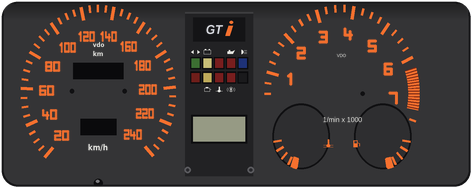
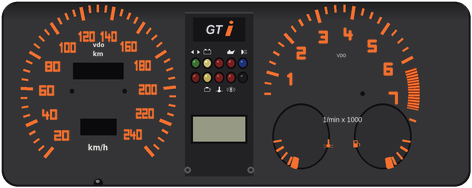
Centro dos ponteiros pela foto: Fúria TR com a barra atravessando o eixo (sem miolo); GTI e Ímola com disco chapado embaixo e a barra por cima (hubUnder); luzes-espia do GTI voltam a ser redondas (v0.29.6)
Claude-Session: https://claude.ai/code/session_01MLD9VR7gkmY4w6a9beZcp6

Changed region(s): [[0.3856, 0.2926, 0.5339, 0.4521]]

diff --git a/src/cockpit.ts b/src/cockpit.ts
@@ -70,6 +70,7 @@ interface CockpitArt {
   hubR?: number; // raio do miolo redondo dos ponteiros grandes
   speedRest?: number; // km/h onde o ponteiro descansa parado (escalas que começam em 20: o pino fica pouco abaixo do 20)
   tachReal?: boolean; // conta-giros na escala de verdade: giro real (do motor do carro) sobre o máximo do mostrador
+  hubUnder?: boolean; // com needleFine: o miolo é um disco chapado EMBAIXO do ponteiro, que passa por cima do eixo (VDO do GTI, Ímola)
   needleTip?: number; // com needleFine: largura da ponta em fração da base (padrão 0,12; 0,5 = ponteiro em barra, quase reto)
   needleFine?: boolean; // ponteiro afinando até a ponta, com suavização (como o desenho da arte)
   faces?: { src: string; src2?: string; x: number; y: number; w: number; h: number }[]; // fundos dos mostradores em alta resolução (src2: versão feita para RES 2)
@@ -253,7 +254,7 @@ COCKPIT_ART['br-golgti'] = {
   tells: null,
   dash: cp('br-golgti-dash'), top: cp('br-golgti-top'), wheel: cp('br-golgti-wheel'), dashMask: cp('br-golgti-dash-mask'), topMask: cp('br-golgti-top-mask'),
   glass: { at: [86, 110], thr: 256 }, // retrovisor esquerdo (vidro transparente na arte)
-  pivot: [128, 112], wheelTop: 8, radar: [206, 20], speedMax: 240, needle: '#f2eee2', needleW: 2.2, needleTail: 0, needleFine: true, needleTip: 0.22, tachReal: true, speedRest: 14, hub: '#141416', hubR: 2.3,
+  pivot: [128, 112], wheelTop: 8, radar: [206, 20], speedMax: 240, needle: '#f2eee2', needleW: 1.8, needleTail: 2.6, needleFine: true, needleTip: 0.3, hubUnder: true, tachReal: true, speedRest: 14, hub: '#3c3c3f', hubR: 2.8,
   faces: [{ src: cp('br-golgti-cluster'), x: 69.5, y: 31.5, w: 118, h: 47 }],
   glow: '255,120,40', glowK: 0.6,
   facesLit: '255,190,130', litMin: 150, litByMax: true, litNeedles: true, // à noite os números laranja e os textos brancos acendem
@@ -288,7 +289,7 @@ COCKPIT_ART['br-monza'] = {
   tells: null,
   dash: cp('br-monza-dash'), top: cp('br-monza-top'), wheel: cp('br-monza-wheel'), dashMask: cp('br-monza-dash-mask'), topMask: cp('br-monza-top-mask'),
   glass: { at: [56, 108], thr: 256 }, // retrovisor esquerdo (vidro transparente na arte)
-  pivot: [128, 112], wheelTop: 8, radar: [222, 12], speedMax: 220, needle: '#f47c2c', needleW: 2.0, needleTail: 1, needleFine: true, needleTip: 0.4, tachReal: true, speedRest: 14, hub: '#0e0e10', hubR: 3.0,
+  pivot: [128, 112], wheelTop: 8, radar: [222, 12], speedMax: 220, needle: '#f47c2c', needleW: 1.9, needleTail: 3.0, needleFine: true, needleTip: 0.35, hubUnder: true, tachReal: true, speedRest: 14, hub: '#2c2c2f', hubR: 3.4,
   faces: [{ src: cp('br-monza-cluster'), x: 64.5, y: 37.5, w: 153, h: 54 }],
   glow: '255,120,40', glowK: 0.6,
   facesLit: '255,190,130', litMin: 150, litByMax: true, litNeedles: true,
@@ -315,7 +316,7 @@ COCKPIT_ART['br-monzasedan'] = {
   tells: null,
   dash: cp('br-monzasedan-dash'), top: cp('br-monzasedan-top'), wheel: cp('br-monzasedan-wheel'),
   glass: { at: [52, 111], thr: 256 }, // retrovisor esquerdo (vidro transparente na arte)
-  pivot: [128, 112], wheelTop: 8, radar: [222, 16], speedMax: 220, needle: '#f0a024', needleW: 1.8, needleTail: 1, needleFine: true, needleTip: 0.4, tachReal: true, speedRest: 14, hub: '#0e0e10', hubR: 2.6,
+  pivot: [128, 112], wheelTop: 8, radar: [222, 16], speedMax: 220, needle: '#f0a024', needleW: 1.7, needleTail: 2.6, needleFine: true, needleTip: 0.35, hubUnder: true, tachReal: true, speedRest: 14, hub: '#2c2c2f', hubR: 3.0,
   faces: [{ src: cp('br-monzasedan-cluster'), x: 66.71, y: 42.57, w: 132.3, h: 49.98 }],
   glow: '255,150,60', glowK: 0.5,
   facesLit: '255,220,170', litMin: 150, litByMax: true, litNeedles: true,
@@ -737,7 +738,7 @@ function c4Cluster(c: CanvasRenderingContext2D, ox: number, r: Race) {
 // 0-320 e conta-giros 0-100 (x 100) com faixa vermelha, óleo e água no meio; tudo aceso em laranja
 COCKPIT_ART.testarossa = {
   dash: cp('testarossa-dash'), top: cp('testarossa-top'), wheel: cp('testarossa-wheel'),
-  pivot: [128, 105], wheelTop: 12, speedMax: 320, needle: '#ff8a1c', needleW: 2.3, needleTail: 0, needleFine: true, needleTip: 0.42, tachReal: true, hub: '#101011', hubR: 1.6,
+  pivot: [128, 105], wheelTop: 12, speedMax: 320, needle: '#ff8a1c', needleW: 2.0, needleTail: 6.5, needleFine: true, needleTip: 0.45, hubUnder: true, tachReal: true, hub: '#101011', hubR: 0,
   glass: { at: [12, 96], thr: 256, x0: 3, toEdge: true }, glow: '255,140,40', tells: null,
   faces: [{ src: cp('tr-cluster'), src2: cp('tr-cluster-2x'), x: 63.5, y: 29.5, w: 137, h: 54 }],
   speed: { x: 95.4, y: 53.7, r: 21, max: 320, labels: [], tick: 20, red: 999, face: false, a0: 135 * (Math.PI / 180), sweep: 270 * (Math.PI / 180) },
@@ -1255,6 +1256,7 @@ function dialNeedle(c: CanvasRenderingContext2D, d: Dial, ox: number, frac: numb
 // ponteiro: do centro exato, traçado em meio pixel (1 px de espessura)
 // ponteiro fino e afinado (arte com mostradores em alta resolução): polígono suavizado, com a
 // sombra leve no fundo, rabicho e miolo redondo com brilho
+let hubUnder = false; // art.hubUnder, acertado a cada quadro
 let needleTip = 0.12; // ponta do ponteiro afinado (art.needleTip), acertada a cada quadro
 function fineNeedle(c: CanvasRenderingContext2D, x: number, y: number, len: number, a: number, w: number, color: string, hub: string, hubR: number, tail: number, tailCol?: string) {
   const ca = Math.cos(a), sa = Math.sin(a) * PIX_Y, px = -Math.sin(a), py = Math.cos(a) * PIX_Y;
@@ -1268,8 +1270,15 @@ function fineNeedle(c: CanvasRenderingContext2D, x: number, y: number, len: numb
     c.closePath();
     c.fill();
   };
+  if (hubUnder && hubR > 0) { // disco chapado do eixo, por baixo do ponteiro
+    c.fillStyle = 'rgba(0,0,0,0.5)';
+    c.beginPath(); c.ellipse(x, y, hubR + 0.35, (hubR + 0.35) * PIX_Y, 0, 0, Math.PI * 2); c.fill();
+    c.fillStyle = hub;
+    c.beginPath(); c.ellipse(x, y, hubR, hubR * PIX_Y, 0, 0, Math.PI * 2); c.fill();
+  }
   poly(0.6, 0.8, 'rgba(0,0,0,0.22)');
   poly(0, 0, color);
+  if (hubUnder) return;
   if (tailCol && tail > 0) {
     // contrapeso de outra cor (o Diablo tem o rabicho preto)
     c.fillStyle = tailCol;
@@ -2028,6 +2037,7 @@ function renderCockpitInner(c: CanvasRenderingContext2D, r: Race, lives: number,
   const art = COCKPIT_ART[r.car.dash];
   ART_TOP = 100 + (art?.dy ?? 0);
   needleTip = art?.needleTip ?? 0.12;
+  hubUnder = !!art?.hubUnder;
   // nas cabines desenhadas, os vidros laterais vão abaixo do painel: a estrada desce até o fim
   // a cabeça do motorista: só a vista pelo para-brisa gira (a cabine não se mexe nem é cortada)
   const yaw0 = r.yaw;

diff --git a/tools/ref/gol_gauges.py b/tools/ref/gol_gauges.py
@@ -262,9 +262,10 @@ def middle(d):
         for i, col in enumerate(cc):
             x = x0 + 2.6 + i * (x1 - x0 - 5.2) / 4
             c0 = P(x, row)
-            # janelinhas quadradas (como na foto), não redondas
-            d.rectangle([c0[0] - K * 1.3, c0[1] - K * 1.3 * PY, c0[0] + K * 1.3, c0[1] + K * 1.3 * PY], fill=(12, 12, 14))
-            d.rectangle([c0[0] - K * 1.0, c0[1] - K * 1.0 * PY, c0[0] + K * 1.0, c0[1] + K * 1.0 * PY], fill=col)
+            # lentes redondas (conferido na foto em tamanho grande)
+            d.ellipse([c0[0] - K * 1.25, c0[1] - K * 1.25 * PY, c0[0] + K * 1.25, c0[1] + K * 1.25 * PY], fill=(12, 12, 14))
+            d.ellipse([c0[0] - K * 0.9, c0[1] - K * 0.9 * PY, c0[0] + K * 0.9, c0[1] + K * 0.9 * PY], fill=col)
+            d.ellipse([c0[0] - K * 0.5, c0[1] - K * 0.6, c0[0] - K * 0.1, c0[1] - K * 0.2], fill=tuple(min(255, c + 70) for c in col))
     q0, q1 = P(x0 + 2.0, 60.2), P(x1 - 2.0, 66.4)  # relógio de cristal líquido
     d.rectangle([q0[0] - K * 0.5, q0[1] - K * 0.5, q1[0] + K * 0.5, q1[1] + K * 0.5], fill=(14, 14, 16))
     d.rectangle([q0[0], q0[1], q1[0], q1[1]], fill=(150, 154, 132))

diff --git a/CLAUDE.md b/CLAUDE.md
@@ -49,7 +49,9 @@
   Quadros só ficam parecidos entre carros que usam o mesmo quadro de verdade (Ímola hatch/sedã/cupê).
 - Ponteiros: conferir parado e acelerando (print dos dois). O conta-giros mostra o giro de verdade na
   escala do mostrador (`tachReal`), o velocímetro descansa onde o real descansa (`speedRest`), e o
-  formato vem da foto (barra grossa sem rabicho na Fúria TR, branco afinado no GTI).
+  formato vem da foto. **Olhar o centro do ponteiro na foto ampliada**: na Fúria TR a barra atravessa o
+  eixo (rabicho comprido, sem miolo); no GTI e no Ímola há um disco chapado EMBAIXO e a barra passa por
+  cima dele (`hubUnder`); só usar miolo em cima (bola com brilho) quando a foto mostrar uma capa.
 - Luzes-espia nunca ficam acesas na arte: desenhar apagadas e acender no jogo na hora certa (óleo,
   freio de mão, pisca). Faixas de cor seguem a lógica do ponteiro (econômetro: verde onde ele fica com
   o pé leve).
